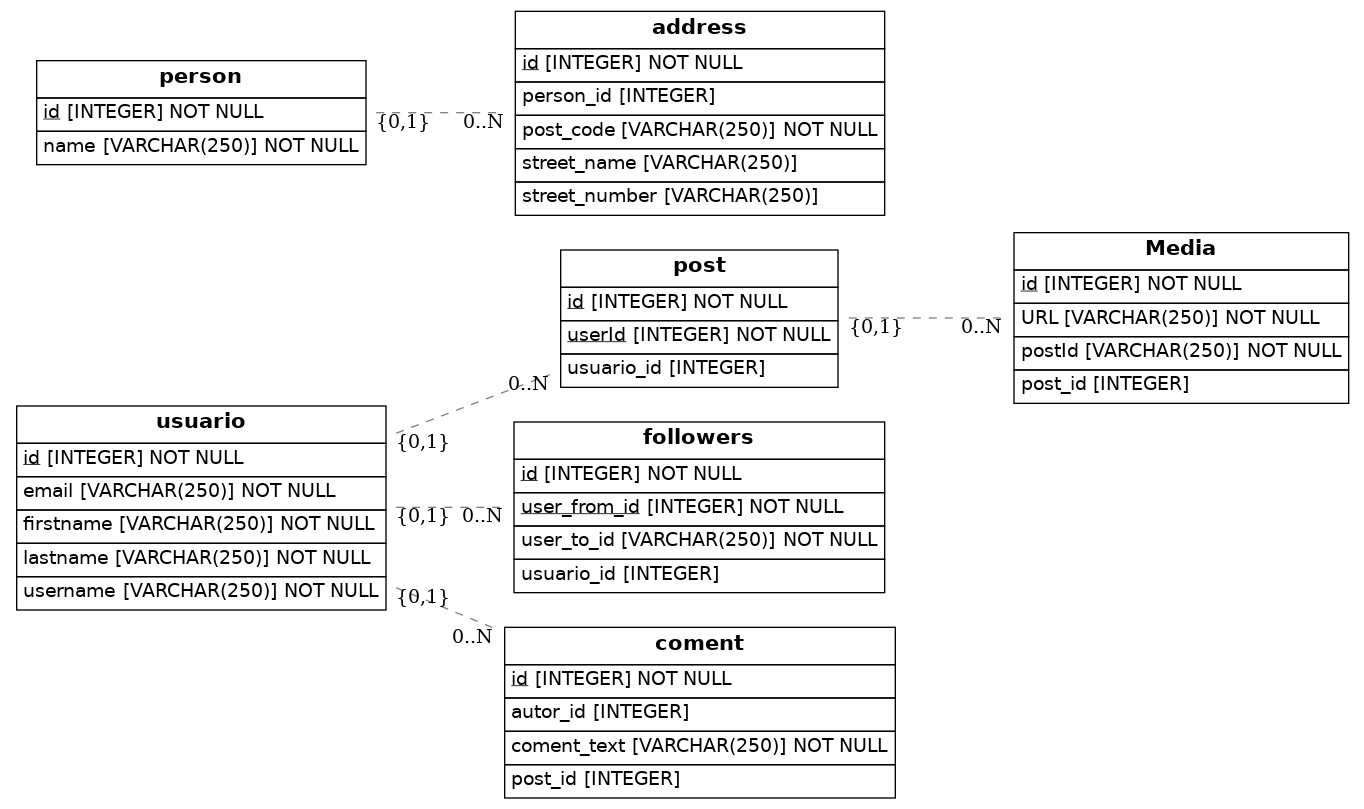
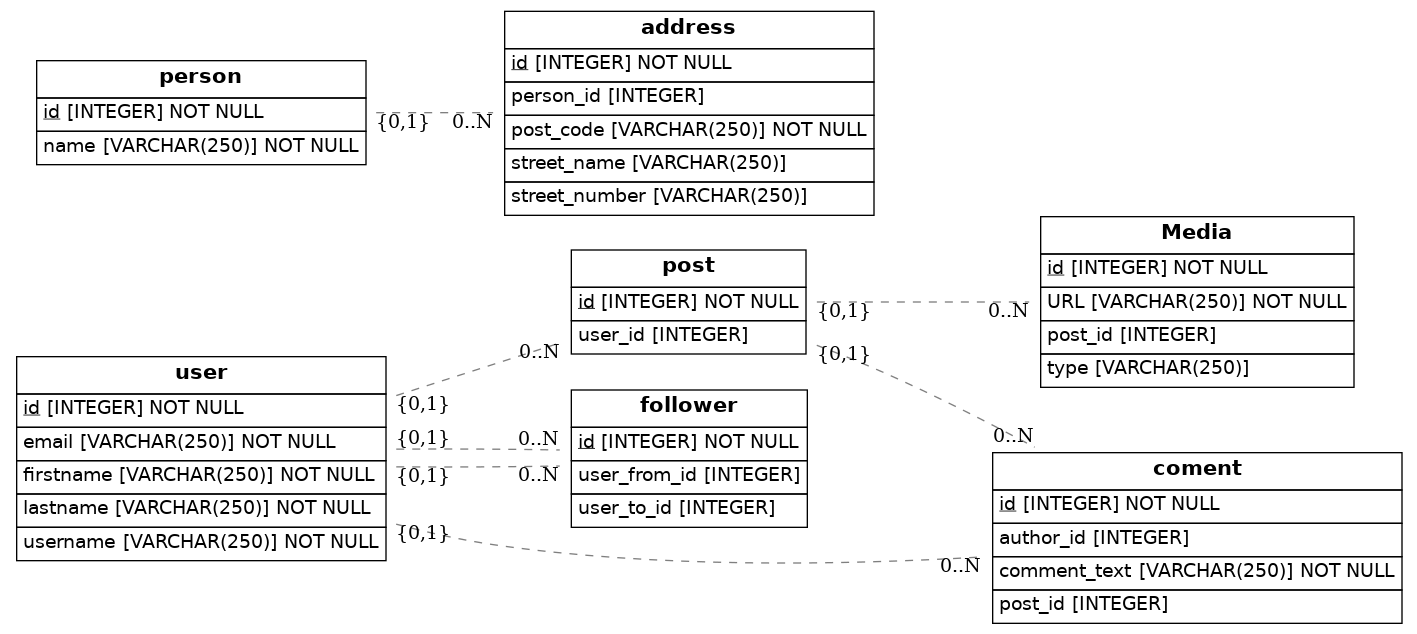
realizo cambios

Changed region(s): [[0.0, 0.0, 1.0, 0.989], [0.6774, 0.2697, 1.0, 0.6293], [0.3387, 0.7792, 0.3695, 0.8091]]

diff --git a/src/models.py b/src/models.py
@@ -7,8 +7,8 @@ from eralchemy2 import render_er
 
 Base = declarative_base()
 
-class Usuario(Base):
-    __tablename__ = 'usuario'
+class User(Base):
+    __tablename__ = 'user'
     # Here we define columns for the table person
     # Notice that each column is also a normal Python instance attribute.
     id = Column(Integer, primary_key=True)
@@ -22,9 +22,8 @@ class Post(Base):
     # Here we define columns for the table person
     # Notice that each column is also a normal Python instance attribute.
     id = Column(Integer, primary_key=True)
-    userId = Column(Integer, primary_key=True)
-    usuario_id = Column(Integer, ForeignKey('usuario.id'))
-    usuario = relationship(Usuario)
+    user_id = Column(Integer, ForeignKey("user.id"))
+    post_relationship = relationship("User")
     
 
 class Media(Base):
@@ -32,35 +31,31 @@ class Media(Base):
     # Here we define columns for the table person
     # Notice that each column is also a normal Python instance attribute.
     id = Column(Integer, primary_key=True)
+    type = Column(String(250))
     URL = Column(String(250), nullable=False)
-    postId = Column(String(250), nullable=False)
-    post_id = Column(Integer, ForeignKey('post.id'))
-    post = relationship(Post)
+    post_id = Column(Integer, ForeignKey("post.id"))
+    post_relationship = relationship("Post")
     
 
 class Follower(Base):
-    __tablename__ = 'followers'
+    __tablename__ = 'follower'
     # Here we define columns for the table person
     # Notice that each column is also a normal Python instance attribute.
     id = Column(Integer, primary_key=True)
-    user_from_id = Column(Integer, primary_key=True)
-    user_to_id = Column(String(250), nullable=False)
-    usuario_id = Column(Integer, ForeignKey('usuario.id'))
-    usuario = relationship(Usuario)
+    user_from_id = Column(Integer, ForeignKey("user.id"))
+    user_to_id = Column(Integer, ForeignKey("user.id"))
+    user_relationship_from = relationship("User", foreign_keys=[user_from_id])
+    user_relationship_to = relationship("User", foreign_keys=[user_to_id])
 
 class Coment(Base):
     __tablename__ = 'coment'
     # Here we define columns for the table person
     # Notice that each column is also a normal Python instance attribute.
     id = Column(Integer, primary_key=True)
-    coment_text = Column(String(250), nullable=False)
-    autor_id = Column(Integer, ForeignKey('follower.id'))
-    follower = relationship(Follower)
-    post_id = Column(Integer, ForeignKey('usuario.id'))
-    usuario = relationship(Usuario)
-
-
-
+    comment_text =  Column(String(250), nullable=False)
+    author_id = Column(Integer, ForeignKey("user.id"))
+    post_id = Column(Integer, ForeignKey("post.id"))
+    comment_relationship = relationship("Post")
 
 
 
